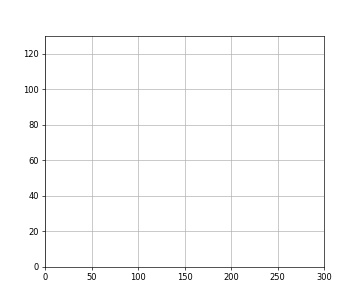
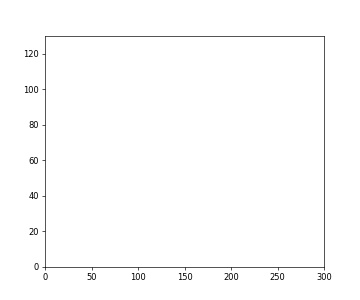
update 2021/12/03 15:07

diff --git a/EGGI_Temperature/Sulink_Temperature_20211203.py b/EGGI_Temperature/Sulink_Temperature_20211203.py
@@ -7,24 +7,14 @@ import sys
 from PyQt5 import QtCore, QtGui, QtWidgets
 from PyQt5.QtWidgets import QDialog,QApplication,QFileDialog
 from PyQt5.QtCore import *
-import time
-from datetime import datetime
-import os
-from matplotlib.font_manager import FontProperties
 from PyQt5 import QtCore, QtGui, QtWidgets
 import pandas as pd
 from pandas.core.indexes.base import Index
 from pandas.core.series import Series
 import matplotlib.pyplot as plt
-from matplotlib.font_manager import FontProperties
-import os
 import time
 import datetime
 from datetime import datetime, timedelta
-import numpy as np
-from heapq import nsmallest
-from pandas.core.indexes.base import Index
-from pandas.core.series import Series
 from pyzbar import pyzbar
 import cv2
 from PyQt5.QtGui import QImage, QPixmap
@@ -44,7 +34,6 @@ class Ui_MainWindow(QtWidgets.QWidget):
         # self.face_recong = face.Recognition()
         self.timer_camera = QtCore.QTimer()
         self.CAM_NUM = 0
-        self.x = 0
         self.count = 0
         self.timer = QTimer()
         self.qrcode_result1 = []
@@ -343,7 +332,7 @@ class Ui_MainWindow(QtWidgets.QWidget):
             self.CH_T_Off.append(self.T_Off_array[0])
             value_gap = self.T_On_array[0] - self.T_Off_array[0]
             time_gap = self.slot_high[0] - self.slot_low[0]
-            self.CH_slot.append(float(value_gap/time_gap))
+            self.CH_slot.append(round(float(value_gap/time_gap),2))
             print(self.CH_slot)
 
         print(self.CH_T_On)
@@ -586,21 +575,18 @@ class Ui_MainWindow(QtWidgets.QWidget):
         plt.plot(self.CH_total, self.CH1_data, 'o-', color='red', label="CH1_data")  # 紅
         plt.xlim(0, len(self.df.index))  # 設定圖範圍
         plt.ylim(0, 130)  # 設定圖範圍
-        # plt.grid(True) #有網格
         plt.savefig('CH1.jpg')
         # ---------------CH2---------------------
         plt.figure(figsize=(6, 5), dpi=60, linewidth=0)
         plt.plot(self.CH_total, self.CH2_data, 'o-', color='orange', label="CH2_data")  # 紅
         plt.xlim(0, len(self.df.index))  # 設定圖範圍
         plt.ylim(0, 130)  # 設定圖範圍
-        plt.grid(True)  # 有網格
         plt.savefig('CH2.jpg')
         # ---------------CH3---------------------
         plt.figure(figsize=(6, 5), dpi=60, linewidth=0)
         plt.plot(self.CH_total, self.CH3_data, 'o-', color='yellow', label="CH3_data")  # 紅
         plt.xlim(0, len(self.df.index))  # 設定圖範圍
         plt.ylim(0, 130)  # 設定圖範圍
-        plt.grid(True)  # 有網格
         plt.savefig('CH3.jpg')
         # ---------------CH4---------------------
         plt.figure(figsize=(6, 5), dpi=60, linewidth=0)
